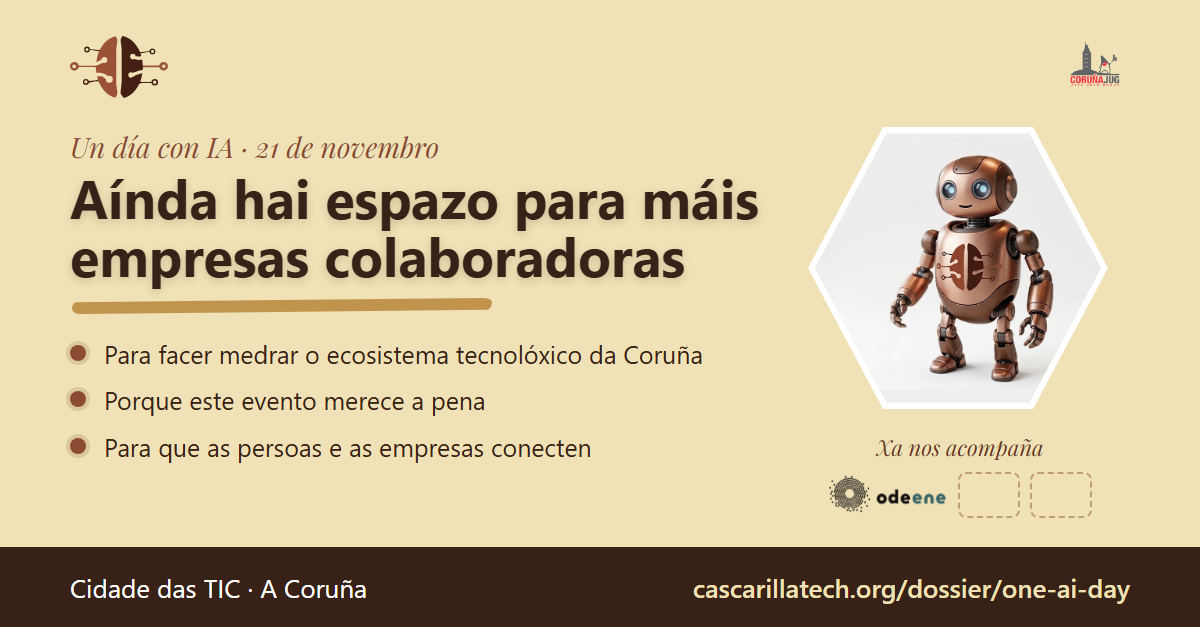
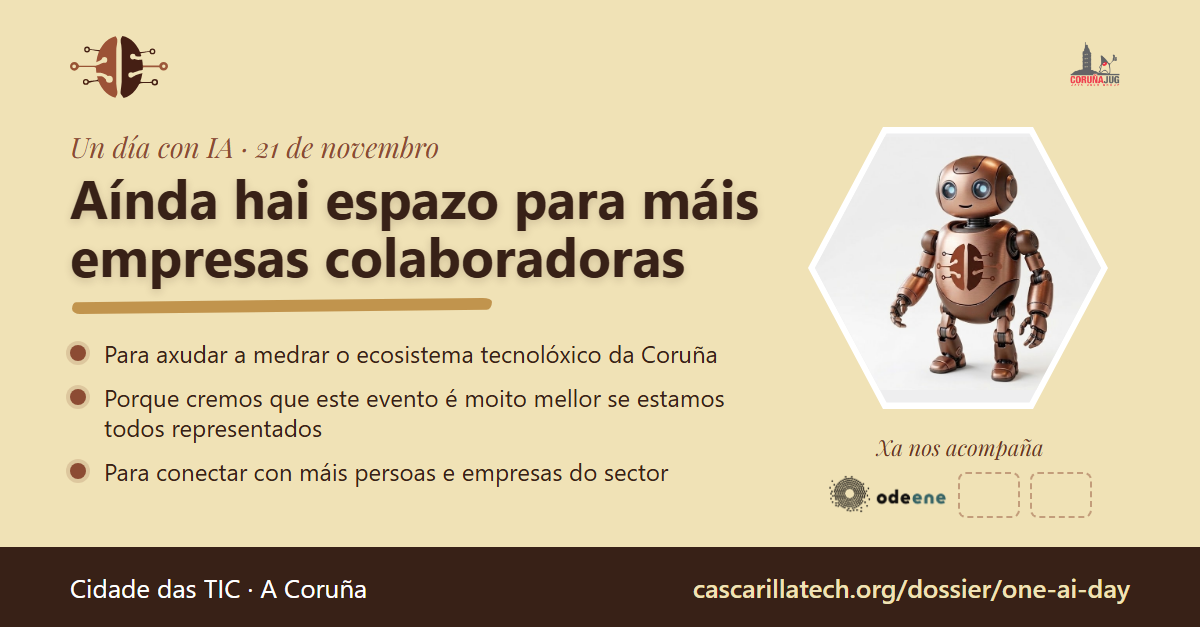
Imaxe LinkedIn gl: novos motivos para colaborar

Changed region(s): [[0.0308, 0.5455, 0.6167, 0.7879]]

diff --git a/design/social/colaboradores-un-dia-con-ia-gl.html b/design/social/colaboradores-un-dia-con-ia-gl.html
@@ -14,7 +14,7 @@ html,body{width:1200px;height:627px;overflow:hidden;background:#f0e2b6;font-fami
 h1{position:absolute;left:70px;top:168px;width:720px;font-size:54px;line-height:1.08;font-weight:700;text-shadow:0 3px 8px rgba(56,33,23,.18)}
 .hl{position:absolute;left:72px;top:300px;width:420px;height:12px;background:#B8863B;opacity:.85;border-radius:6px 14px 8px 12px/10px 6px 12px 8px;transform:rotate(-.6deg)}
 ul{position:absolute;left:70px;top:338px;width:700px;list-style:none}
-li{font-size:25px;line-height:1.25;margin-bottom:15px;padding-left:34px;position:relative}
+li{font-size:24px;line-height:1.25;margin-bottom:14px;padding-left:34px;position:relative}
 li::before{content:"";position:absolute;left:0;top:7px;width:16px;height:16px;border-radius:50%;background:#8C4B33;box-shadow:0 0 0 4px rgba(140,75,51,.18)}
 .hex-wrap{position:absolute;right:92px;top:118px;width:300px;height:300px}
 .hex{position:absolute;inset:0;clip-path:polygon(25% 3%,75% 3%,100% 50%,75% 97%,25% 97%,0 50%);background:#fff}
@@ -36,9 +36,9 @@ footer b{color:#f0e2b6;font-weight:600}
   <h1>Aínda hai espazo para máis empresas colaboradoras</h1>
   <div class="hl"></div>
   <ul>
-    <li>Para facer medrar o ecosistema tecnolóxico da Coruña</li>
-    <li>Porque este evento merece a pena</li>
-    <li>Para que as persoas e as empresas conecten</li>
+    <li>Para axudar a medrar o ecosistema tecnolóxico da Coruña</li>
+    <li>Porque cremos que este evento é moito mellor se estamos todos representados</li>
+    <li>Para conectar con máis persoas e empresas do sector</li>
   </ul>
   <div class="hex-wrap"><div class="hex"></div><div class="hex-in"><img src="../../public/images/un-dia-con-ia-robot.jpg" alt=""></div></div>
   <div class="with"><p>Xa nos acompaña</p><div class="row"><img src="../../public/images/poster/sponsors/odeene-color-horizontal.png" alt="Odeene"><span class="slot"></span><span class="slot"></span></div></div>
